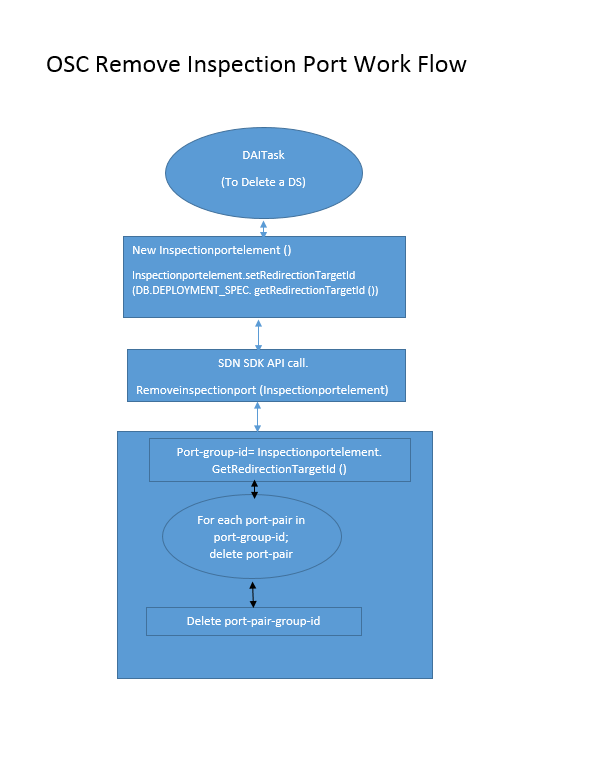
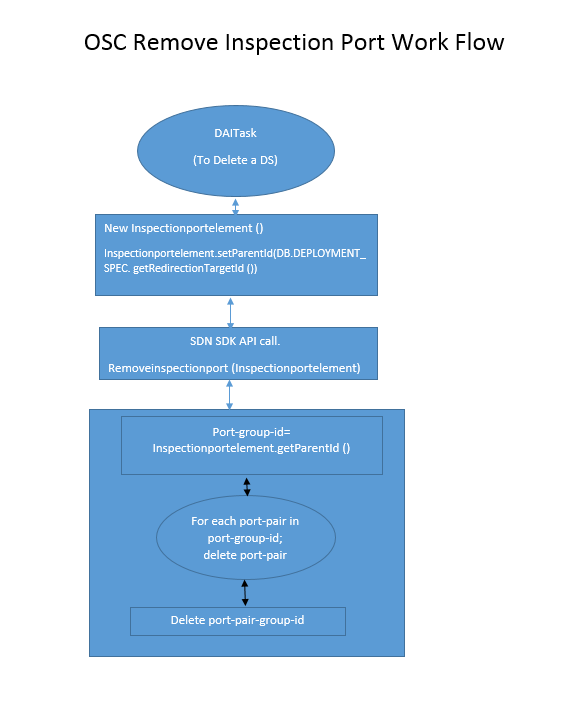
SG binding and install inspection hook design for SFC and UI mocks ups added and modifications

diff --git a/designs/service_function_chaining/SFC_design.md b/designs/service_function_chaining/SFC_design.md
@@ -46,7 +46,29 @@ SFC functionality in OSC will adapt to existing SDN controller SDK APIs.SFC conf
 ![](./images/sw-modules.png)
 ### REST API   
 Currently not applicable.
- 
+
+### OSC Configuration Changes
+OSC security group binding configuration for SFC will be different compare to current configuration steps. For binding a security group with Service Function in Openstack using SFC, user has to create chain by selecting the DAs in a VC.
+Each DA in a VC is a service function. And user should be able to select DAs in particular order to create a service function chaining.  
+
+The step are show below. And steps in bold represent changes in OSC for SFC functionality.  
+
+1. DA Creation (A service function chain is one or more DAs)
+1. **Port Chain Creation ( Create service function chaining)**
+1. Create a security group
+1. **Binding a Security Group**
+
+#### Port Chain
+A new configuration requirement, Port Chain is introduced for SFC functionality. In this configuration an OSC configuration entity called port chain (SERVICE_FUNCTION_CHAIN) will be created and this will have a reference point to corresponding Virtual connectors and DAs. In OSC DB a SERVICE_FUNCTION_CHAIN table and related fields of entities will be create. And this Database table will have reference to DAs(VSS) attached to this chain.Port Chain is setup only in OSC and no action is taken place at target Openstack VC during its creation.
+
+**OSC Entities Mapping**
+![](./images/pc-mapping.png)
+
+#### Security Group Binding.
+Currently in OSC a security group is binded to one or more DAs. With SFC a security group will now be bonded not to a DA but to a port chain(SFC). And it cannot bind to more than one port chain(SFC). But multiple security groups can bind to same port chain.OSC SDN controller SDK API `installInspectionHook` explain in detail how OSC will make use of port chain mapping and configures target Openstack for traffic redirection using SFC chaining.
+
+* [Work Flow for Security Group binding in SFC](#CreateSFCFlowClassifierHookTask)
+* [Work Flow for deletion of Security Group binding in SFC](#CreateSFCFlowClassifierHookTask)
 ### OSC SDKs  
 
 #### SDN Controller SDK  
@@ -55,32 +77,9 @@ Over all changes related to SDN controller APIs and Interfaces are listed below.
 
 ##### Interface Changes
 Following Interfaces are modified to fit SFC plugin to SDN SDK APIs
-1. InspectionPortElement()
-1. NetworkElement()
+* [NetworkElement()](#NetworkElement)
+* [InspectionPortElement()](#InspectionPortElement)
 
-###### InspectionPortElement()
-This interface will have an additional field getRedirectionTargetId().For more understanding of `getRedirectionTargetId` follow inspection port work flow described below  
-Current InspectionPortElement interface
-```
-public interface InspectionPortElement {
-
-    NetworkElement getIngressPort();
-
-    NetworkElement getEgressPort();
-}
-```
-Proposed changes to InspectionPortElement interface
-```
-public interface InspectionPortElement {
-
-    NetworkElement getIngressPort();
-
-    NetworkElement getEgressPort();
-
-	String getRedirectionTargetId();			// Parent ID will be set with port-pair-group id, return from openstack 
-    											afte the port-pair is either added or updated to port-pair-group.(PPG)
-}
-```
 ###### NetworkElement()
 For re-usability NetworkElement() interface will be split into two.  
 Current NetworkElement interface  
@@ -97,18 +96,17 @@ public interface NetworkElement {
 }
 ```
 Proposed changes to NetworkElement
-Create a new file ElementIdInfo.java and add new class
+Create a new interface Element
 ```
-public interface ElementIdInfo {
+public interface Element {
 	String getElementId();
 	
 	String getParentId();
 }
 ```
-Modify the exisiting class NetworkElement() to inherit ElementIdInfo()
+Modify the exisiting class NetworkElement() to inherit Element()
 ```
-import ElementIdInfo.java
-public interface NetworkElement extends ElementIdInfo{
+public interface NetworkElement extends Element{
     
     List<String> getMacAddresses();
 
@@ -117,9 +115,35 @@ public interface NetworkElement extends ElementIdInfo{
 }
 ```
 
+###### InspectionPortElement()
+This interface will inherit ElementIdInfo. Inspection port work flow described below  
+Current InspectionPortElement interface
+```
+public interface InspectionPortElement {
+
+    NetworkElement getIngressPort();
+
+    NetworkElement getEgressPort();
+}
+```
+Proposed changes to InspectionPortElement interface
+```
+public interface InspectionPortElement extends ElementIdInfo{
+
+    NetworkElement getIngressPort();
+
+    NetworkElement getEgressPort();
+
+}
+```
+
+
 ##### APIs Definition Changes
 Following SDK Controller APIs are proposed to change
-1. registerInspectionPort()
+* [registerInspectionPort()](#registerinspectionport)
+* [installInspectionHook()](#installInspectionHook)
+* [removeInspectionHook()](#removeInspectionHook)
+
 
 ###### registerinspectionport()
 This API for SFC functionality will be changed to return `ElementIdInfo()` interface . Inspection port work flow is described in following sections.  
@@ -133,39 +157,139 @@ Proposed API Definition
 ```
 ElementIdInfo registerInspectionPort(InspectionPortElement inspectionPort) throws NetworkPortNotFoundException, Exception;
 ```
+###### installInspectionHook()
+This API uses updated `InspectionPortElement` . This interfaces parentId argument carries already existing port chain Id to add more flow classifiers to that port chain ID. And the same parentId is used for `installInspectionHookId`. Detail installInspectionHook work flow is show below. `networkElement` will be a list of elements.  
 
+Current API definition  
+
+```
+String installInspectionHook(NetworkElement networkElem, InspectionPortElement inspectionPort, Long tag,
+            TagEncapsulationType encType, Long order, FailurePolicyType failurePolicyType)
+                    throws NetworkPortNotFoundException, Exception;
+```
+Proposed API Definition  
+
+```
+String installInspectionHook(List NetworkElement networkElem , InspectionPortElement inspectionPort,
+									 Long tag,
+            						TagEncapsulationType encType, Long order, FailurePolicyType failurePolicyType)
+                    				throws NetworkPortNotFoundException, Exception;
+```
+###### removeInspectionHook()
+This API also carrie port-chain-id as `installInspectionHookId`. All protect ports of a security group , flow classifier rules will be deleted on a given installInspectionHook Id which is a port-chain-id on a target Openstack node.
+Detail work flow on remove fucntionality is show below.
+
+Current API definition.  
+```
+void removeInspectionHook(NetworkElement networkElem, InspectionPortElement inspectionPort) throws Exception;
+```
+Proposed API Definition  
+
+```
+void removeInspectionHook(List NetworkElement networkElem, InspectionPortElement inspectionPort) throws Exception;
+```
 #####  Inspection Port Interface Work Flow
 OSC core will create inspection port during creation of new distribution specification (DS) under a distribution Appliance.  
 
 SDN controller SDK APIs `registerinspectionport` and `removeinspectionport` will be called to create and remove the inspection port with `InspectionPortElement` interface as the argument.  
+`InspectionPortElement`  will have port-pair Id as ElementId and Port-Pair-Group-Id as ParentId.
 
 SFC plugin should adapt the same SDK controller APIs to create and delete inspection port hook entity in OSC. 
 
 Inspection port work flow is shown below.  
 
-**RegisterInspectionPort**  
+RegisterInspectionPort  
 ![](./images/reg-inspection-port.png)
 
-**RemoveInspectionPort**  
+RemoveInspectionPort 
 ![](./images/remove-inspection-port.png)
 
-### OSC Entities
-This section describes changes recommended in the OSC database for SFC plugin. Mostly like new table creation, additions to existing table entities and mapping between the tables.  
+##### Install Inspection Hook Work Flow.
+In OSC install inspection work flow is used during security group binding operations. For SFC a security group will be binding to a chain of service functions i.e port chain in OSC. Earlier this SG was binding to a DA.  
+During binding OSC gets all the service function(DS) for the tenant of SG, call `registerNetworkElement` API to create a port chain. This port chain will be used to create installInspectionHook. Detail work flow is give below.
 
-#### SFC Port-Pair-Group-id  <-> redirection-target-id
-In SFC plugin, new entity `redirection-target-id` is used as Inspection port that is used for traffic redirection. According SFC requirements, the DS Appliance instances(one or more than one) ingress and egress ports are paired grouped into port-pair-group. This port-pair-group Id is used for later for port-chaining and traffic redirection. So this port-pair-group-id will be save as redirection-target-id in database.  
+![](./images/installInspectionHook-api.png)
+
+##### Remove Inspection Hook Work Flow.
+This API in SFC will be used in two way, to delete a security group binding and also to delete a particular vm-port in a security group.Detail workflw is show below.
+
+![](./images/removeInspectionHook-api.png)
+
+##### registerNetworkElement Work flow for SFC.
+This API is used to create port-chain-id give list of PPGIds (redirection targets).
+![](./images/registerNetworkElement.png)
+
+##### deleteNetworkElement Work flow for SFC.
+This API is used to delete port-chain-id.
+![](./images/deleteNetworkElement.png)
+
+### OSC Entities
+This section describes changes recommended in the OSC database for SFC plugin.  
+
+#### SFC Port-Pair-Group-id  <-> redirection-target-id in DEPLOYMENT SPECIFICATION Table
+In SFC plugin, new field `redirection-target-id` is used as Inspection port that is used for traffic redirection. According SFC requirements, the DS Appliance instances (one or more than one) ingress and egress ports are paired and grouped into port-pair-group. This port-pair-group Id is used later for port-chaining and traffic redirection. 
+So a data base entry is required and added in DEPLOYMENT_SPEC database table to save configured port-pair-group-id.  
 
 Proposed changes to the data base.  
 ![](./images/redirection-target-id-entity.png)
 
+#### SERVICE_FUNCTION_CHAIN Database  
+SFC will introduce a new table (SERVICE_FUNCTION_CHAIN) to OSC database for maintaining the port chaining of DA's.
+As mentioned earlier each DA will represent a service function in OSC. User will be allowed to configure chaining of these DA to perform service function chaining. And since DA's represent a virtual system in OSC database, a `SERVICE_FUNCTION_CHAIN` foreign_key is mapped to VIRTUAL_SYSTEM table.  
+Show below are table and mapping of `SERVICE_FUNCTION_CHAIN` table in OSC database.  
+![](./images/sfc-database-table.png)
 
+![](./images/sfc-db-mapping.png)  
+
+Database mapping procedure:
+1. User creates a service function chain from UI.  
+1. User selects DAs that should be part of chain in order.  
+1. Osc-core will update `SERVICE_FUNCTION_CHAIN` database with Name, primary_key..etc.  
+1. Osc-core will fetch from given DAs the` VIRTUAL_SYSTEM` database of that DA and updates` service_function_chain_fk`  
+
+```
+create table SERVICE_FUNCTION_CHAIN (" +
+				   "id bigint generated by default as identity," +
+				   "created_by varchar(255)," +
+				   "created_timestamp timestamp," +
+                   "deleted_by varchar(255)," +
+                   "deleted_timestamp timestamp," +
+                   "marked_for_deletion boolean," +
+                   "updated_by varchar(255)," +
+                   "updated_timestamp timestamp," +
+                   "version bigint," +
+                   "name varchar(255) not null," +
+				   "primary key (id)" +
+				   ")
+```
 
 ### OSC UI  
-Use UI mock ups to describe any UI change.  
+For SFC addition, deletion and edit UI page is located under VC. All DAs pertaining to a particular VC can be chained together. Since both security group and service function chaining are related to a Virtualization Connector (VC) the main page of VC should modify.
+All recommended OSC service function chaining UI pages are show below.
+
+**Virtualization Connector main page**
+![](./images/vc-main-page.png)
+**SFC Main page**
+![](./images/sfc-vc-page.png)
+
+**SFC Add page**
+![](./images/add-sfc-page.png)
+
+**SFC Chain Edit**
+![](./images/edit-sfc-page.png)
 
 ### OSC Synchronization Tasks  
-Describe any changes on the OSC internal synchronization tasks or metatasks. Use a diagram to represent any updated or new task graph.  
+SFC implementation will have create and delete security binding procedures. The task flow for these procedures are shown below.
+* [CreateSFCFlowClassifierHookTask()](#CreateSFCFlowClassifierHookTask)
+* [DeleteSFCFlowClassifierHookTask()](#registerinspectionport)
 
+#### CreateSFCFlowClassifierHookTask
+This OSC task will be invoked for binding a security group with a service function chain. Work flow for this task is show below.
+![](./images/sg-binding.png)
+
+#### DeleteSFCFlowClassifierHookTask
+This OSC task will be invoked for deleting a security group binding with a service function chain. Work flow for this task is show below.
+![](./images/sg-binding-delete.png)
 ## Tests  
 Describe here any new test requirement for this feature. This can include: virtualization platform, test infrastructure, stubs, etc.   
 > Note: Any feature should be demonstrable and testable independently of a particular vendor component or service. 
